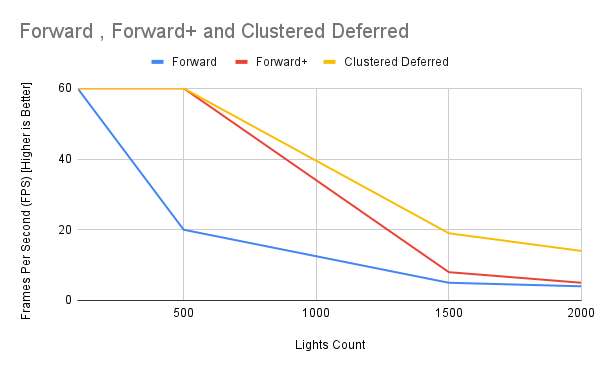
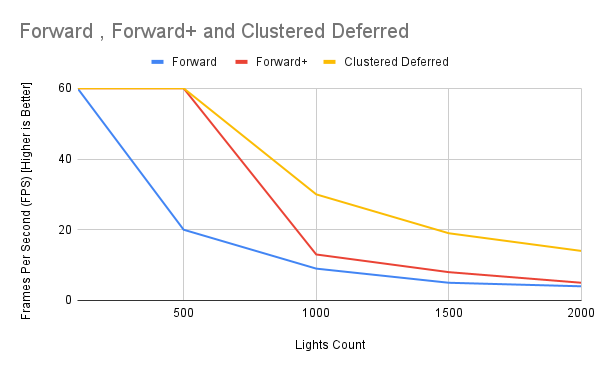
Updated Blinn Phong

diff --git a/src/shaders/deferred_Blinn.frag.glsl.js b/src/shaders/deferred_Blinn.frag.glsl.js
@@ -138,18 +138,15 @@ vec3 oct_to_float32x3( vec2 e) {
       // Avoid negative lighting values
       diffuseTerm = clamp(diffuseTerm, 0.0, 1.0);
   
-      float ambientTerm = 0.02;
-  
-      float lightIntensity =  cubicGaussian(2.0 * lightDistance / light.radius);;
-      //float lightIntensity = diffuseTerm + ambientTerm;
+      float lightIntensity =  cubicGaussian(2.0 * lightDistance / light.radius);
   
   
       vec3 a_viewDir = normalize(vec3(u_cameraPos) - vec3(gbPos));
       vec3 a_HalfWay =  normalize((vec3(LightVec) + a_viewDir)/2.0);
-      float shininess = 10.0;
+      float shininess = 100.0;
       vec3 specularIntensity = vec3(max(pow(dot(normalize(a_HalfWay), normalize(vec3(gbNor))), shininess), 0.0));
 
-      fragColor += vec3( specularIntensity * lightIntensity *  vec3(albedo) * light.color * lambertTerm );
+      fragColor += vec3(  specularIntensity * vec3(albedo) * light.color * lambertTerm * lightIntensity );
     }
     const vec3 ambientLight = vec3(0.025);
     fragColor += vec3(albedo) * ambientLight;

diff --git a/src/scene.js b/src/scene.js
@@ -4,11 +4,11 @@ import { gl } from './init';
 // TODO: Edit if you want to change the light initial positions 
 export const LIGHT_MIN = [-14, 0, -6];
 export const LIGHT_MAX = [14, 20, 6];
-export const LIGHT_RADIUS = 1.0;
+export const LIGHT_RADIUS = 5.0;
 export const LIGHT_DT = -0.03;
 
 // TODO: This controls the number of lights
-export const NUM_LIGHTS = 2000;
+export const NUM_LIGHTS = 500;
 
 class Scene {
     constructor() {

diff --git a/src/renderers/base.js b/src/renderers/base.js
@@ -3,7 +3,7 @@ import { vec3, vec4, mat4 } from 'gl-matrix';
 import { Light } from 'three';
 import { NUM_LIGHTS } from '../scene';
 
-export const MAX_LIGHTS_PER_CLUSTER = 2000;
+export const MAX_LIGHTS_PER_CLUSTER = 500;
 
 export default class BaseRenderer {
     constructor(xSlices, ySlices, zSlices) {

diff --git a/src/init.js b/src/init.js
@@ -78,6 +78,9 @@ function setSize(width, height) {
 }
 
 setSize(canvas.clientWidth, canvas.clientHeight);
+console.log(canvas.clientWidth);
+console.log(canvas.clientHeight);
+
 window.addEventListener('resize', () => setSize(canvas.clientWidth, canvas.clientHeight));
 
 if (DEBUG) {

diff --git a/README.md b/README.md
@@ -25,7 +25,27 @@ This project highlights the performance differences between Forward, Forward+ cl
 - Deferred Clustered : This required multiple passes of the OpenGL draw pipeline. Scene information is stored as G Buffers in the first pass and the scene is shaded using the same cluster methodology as Forward+ Shading.    
 
 ### Performance Analysis 
+In Theory Expected Performance : Deferred Clustered >  Forward+ > Forward
 
+- Forward+ > Forward : This is attributed towards the number of lights calculation that finally affects a vertex. In Forward we are calculating the resultant color of an object vertex due to every light in the scene regardless of weather the light affects the object vertex. Where as i Forward+ we take into account the number of light affecting the object vertex so overall the lighting computation decreases.
+-  Deferred Clustered > Forward+ : This is also attributed towards the number of light calculations that finally affects the vertex. But the difference comes into play due to multiple passes in Deferred Clustered. Since we store the position attributes in a Texture buffer once, the second pass of the fragment shader doesn't have to do light calculation for multiple fragment for the same pixel as we are left with only one fragment per pixel. Only the smallest depth fragments is left and all the others gets deleted off during the first pass. Whereas in the Forward+ lighting calculation is done for all the fragments for a particular pixel, the lowest one is kept while the others are discarded after the fragment shader stage. The downside is that we can't have transparence in our scene.   
+
+### Performance Charts
+I have to used debug mode in order to get substantial analyses. To analyze this data, I used Google Chrome's built-in performance tools, which allows me to view the function calls in a tick() of the program.
+For some reason my the numbers for time between each cycle of tick() call didn't make any sense for forward shading so i am using (Frames Per Second) FPS as the metric for my performance analysis.
+
+**Parameters**
+- Resolution - 1920 X 912 (Width X Height ) 
+- Cluster Size - ( 20 X 20 X 20 ) ( X * Y * Z) (OpenGL Length metric Units)
+- Light Radius - 1  (OpenGL Length metric Units)
+  
+
+**Forward, Forward+ and Deferred Clustered (Optimised)**
+
+**Deferred Clustered and Deferred Clustered (Optimised)**
+
+
+As expected, the Clustered Deferred performs the best followed by Forward+ and the Forward. However as the number of lights Forward+  and Forward converge to about a similar performance as the most of the clusters are filled with a large number of lights and similar therefore similar computation. Deferred Clustered still performs the best due to multiple passes as explained above. 
 
 ### Credits
 
